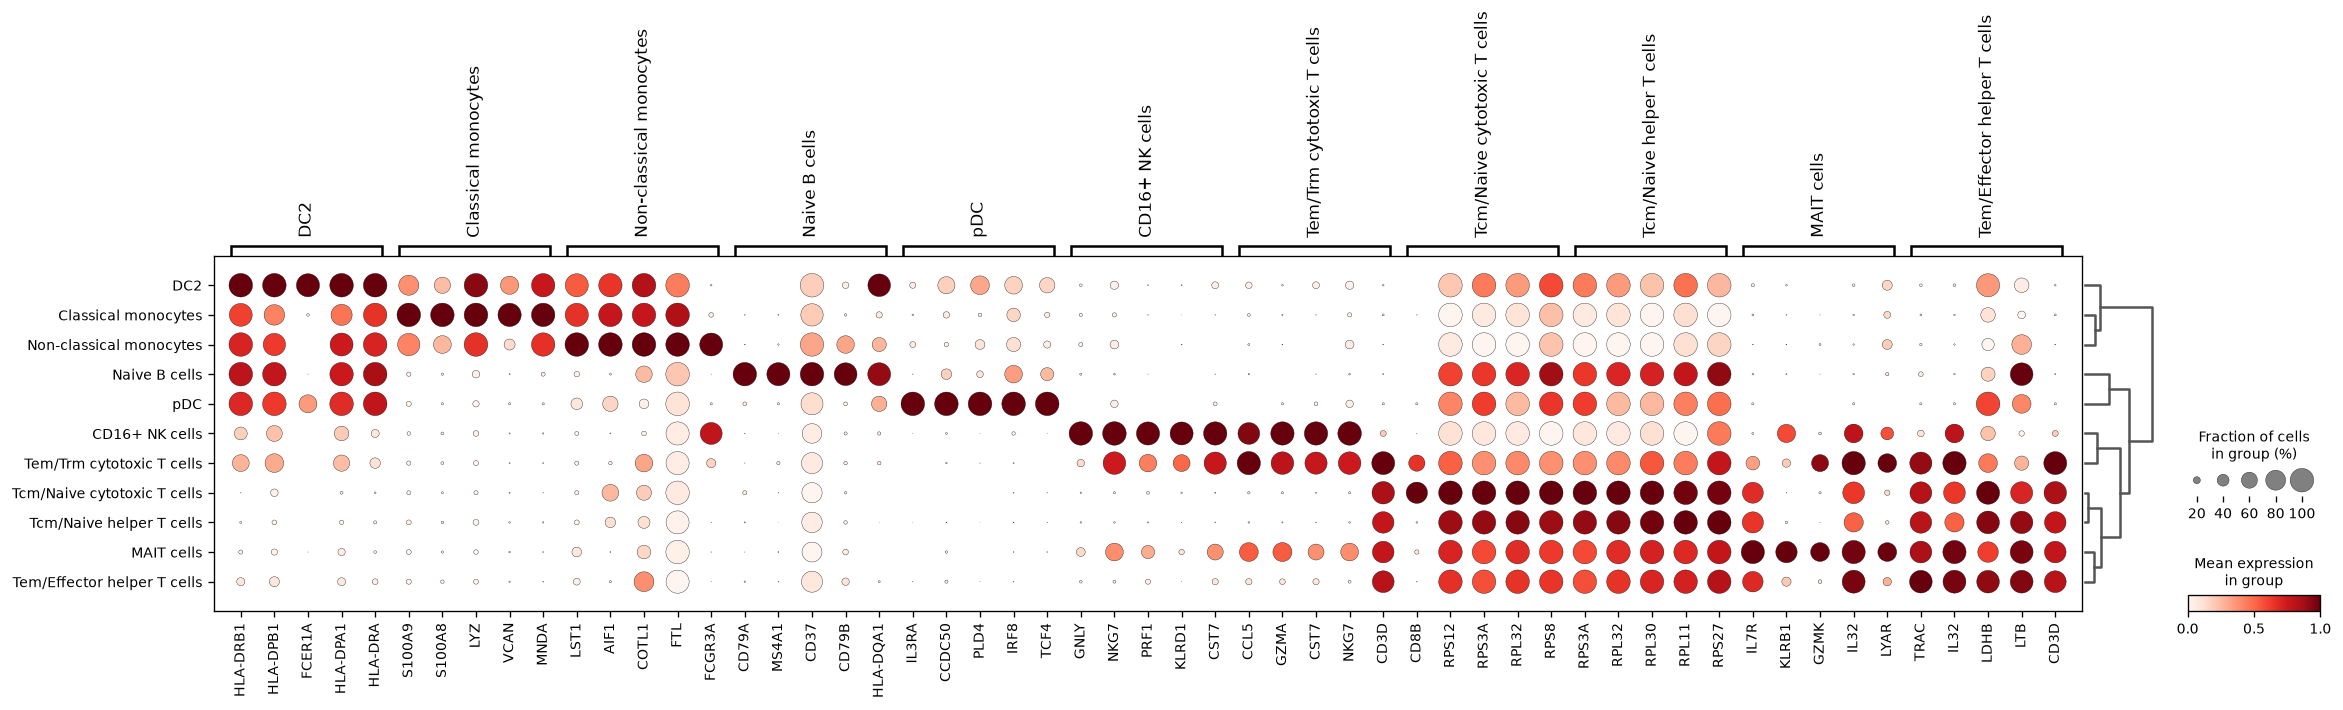
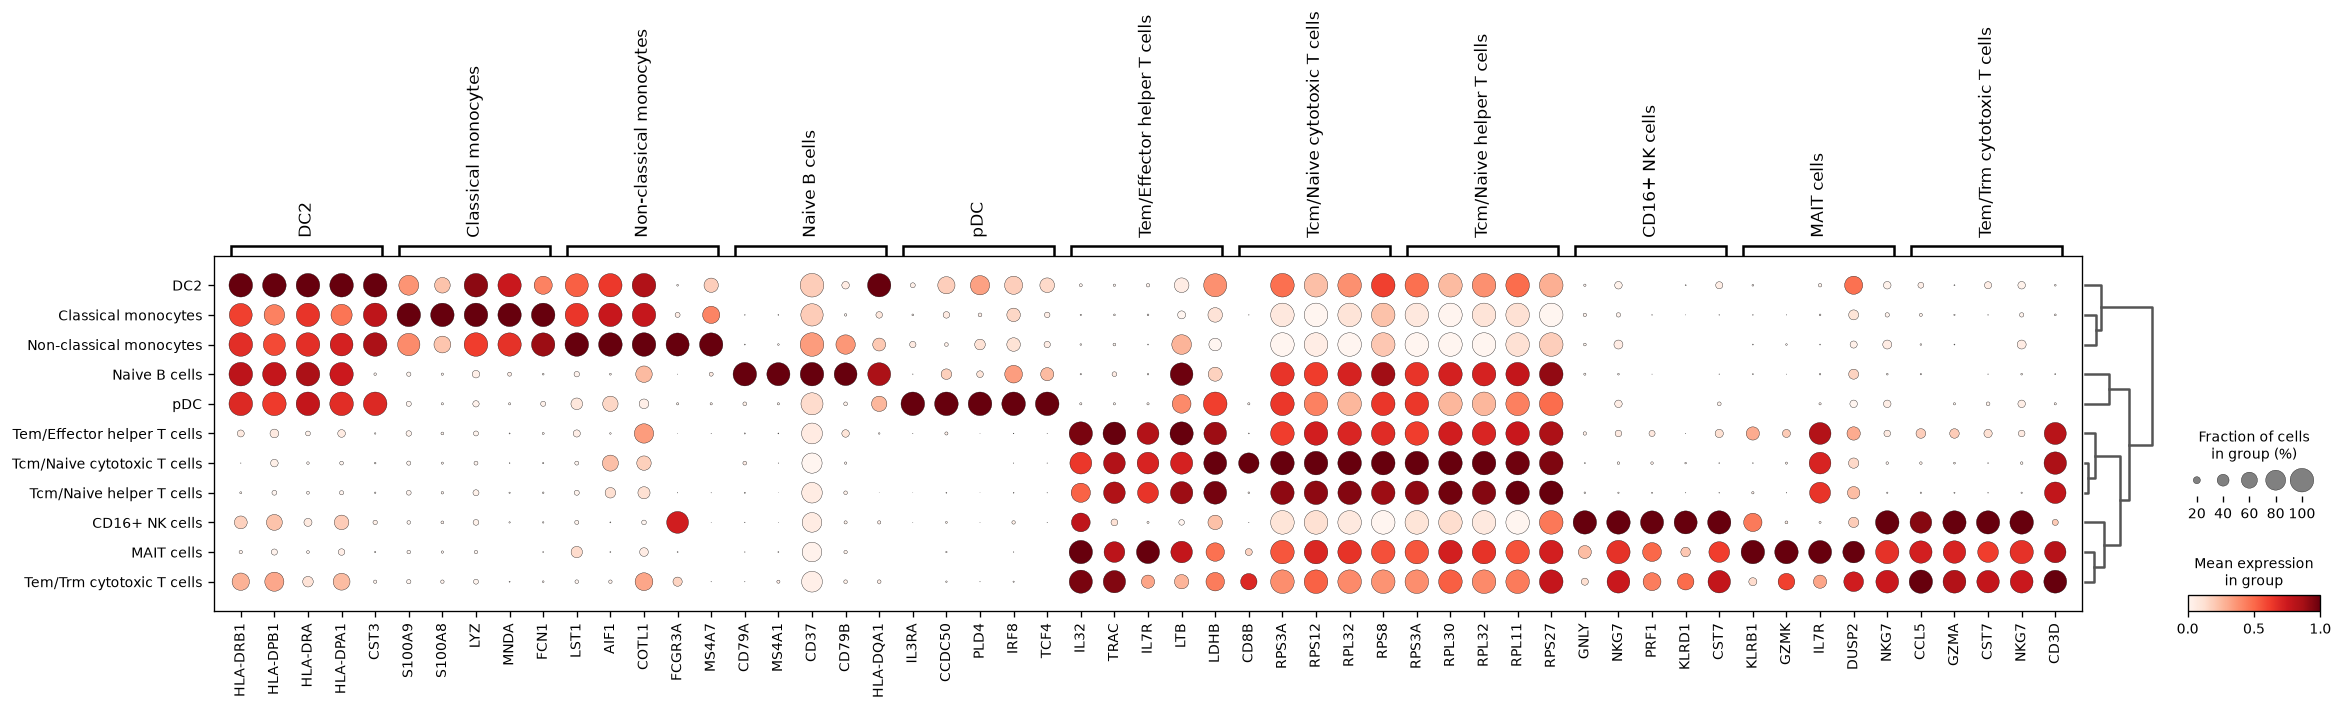
Re-run update

diff --git a/examples/pbmc_multibatch/report.md b/examples/pbmc_multibatch/report.md
@@ -1,68 +1,95 @@
 # PBMC Multi-Batch scRNA-seq Analysis Report
 
 ## Overview
-Dataset: `data/pbmc_multibatch.h5ad` — 4,000 cells × 15,792 genes, human PBMCs pooled across **2 batches** (`batch` column: PBMC10k, PBMC5k), with raw counts available.
+This report describes the end-to-end analysis of `data/pbmc_multibatch.h5ad`, a peripheral blood mononuclear cell (PBMC) dataset comprising two batches (technical replicates/samples, `PBMC10k` and `PBMC5k`). The analysis proceeded from raw counts through QC filtering, doublet removal, batch-corrected dimensionality reduction, clustering, and cell-type annotation.
 
-## Gene Identifiers & QC
-- Gene symbols confirmed (human), mitochondrial genes identified via **MT-** prefix (13 genes found).
-- QC metrics computed per cell: `n_genes`, `total_counts`, `pct_counts_mt`.
-- **Mitochondrial content was unusually high genome-wide** (median 6.9%, p75 8.6%, p95 12.2%), well above the typical PBMC tutorial baseline. The tool's default recommendation (`max_pct_mt=5%`) would have discarded **82% of cells** — clearly inappropriate for this dataset's actual biology/library prep. Instead, a threshold of **15% mito** was chosen from the observed distribution, targeting only the extreme tail (~p97+) of stressed/dying cells.
-- Filtering applied: `min_genes=200` (removed 0 cells — distribution was already healthy), `max_pct_mt=15`, `min_cells=3` (gene-level).
-- Result: **4000 → 3927 cells** (73 removed), 15792 → 15702 genes (90 removed).
+## 1. Input Data
+- **Starting size:** 4,000 cells × 15,792 genes
+- **Gene identifiers:** Human gene symbols (mitochondrial prefix `MT-`, 13 mito genes detected)
+- **Batch structure:** 2 batches present in `obs['batch']`, treated as a technical grouping to be corrected for (not an experimental variable of interest)
+- Raw counts were available and preserved throughout for later use by scVI.
 
-## Doublet Detection
-- Scrublet doublet scores were computed; the distribution was **not bimodal** (no clear valley), so per protocol the **median + 3×MAD** rule was used: threshold = **0.09**.
-- This flagged 364 cells (9.3%) as doublets — a plausible rate for a pooled/multiplexed multi-batch PBMC dataset.
-- Result: **3927 → 3563 cells** after removal.
+## 2. Quality Control
+Per-cell QC metrics were computed (genes/cell, total counts/cell, % mitochondrial reads). Key distributional stats:
+- `n_genes_by_counts`: median 1568 (range 264–4360)
+- `total_counts`: median 4783 (range 516–19,945)
+- `pct_counts_mt`: median 6.9% (range 1.3%–20.0%)
 
-## Normalization & Batch Correction
-- Raw counts stashed prior to normalization (required for scVI).
-- Total-count normalization (target sum 1e4), log1p transform, and HVG flagging (2000 genes) performed.
-- Since the dataset contains **2 real batches**, **scVI** was used (rather than plain PCA) to learn a batch-corrected 10-dimensional latent embedding (`X_scVI`), trained for 400 epochs on raw counts restricted to HVGs. This is the appropriate choice per protocol when a genuine multi-batch structure is present.
+**Threshold decision:** The standard tutorial-default mitochondrial cutoff (5%) was evaluated but rejected — it would have discarded 3,291/4,000 cells (82%), since the dataset's median mito% (6.9%) already exceeds that threshold. This indicated the tutorial default was miscalibrated for this dataset's biology/chemistry. Instead, a data-driven cutoff of **15% mito** (between the 95th and 99th percentiles) was used, removing only genuine high-mito outliers.
 
-## Clustering & Markers
-- Leiden clustering (resolution 1.0) on the scVI latent space + UMAP embedding yielded **14 clusters**, ranging from 23 to 703 cells.
-- Wilcoxon marker-gene ranking per cluster identified clear, biologically coherent signatures (e.g., S100A8/9/CD14/LYZ for classical monocytes, CD3D/TRAC for T cells, CD79A/MS4A1 for B cells, NKG7/GNLY for NK cells, IL3RA/IRF8 for pDCs).
+**Filters applied:**
+- `min_genes = 200` (floor; removed 0 cells, as the minimum was already 264)
+- `max_pct_mt = 15%`
+- `min_cells = 3` (gene-level filter)
 
-## Cell Type Annotation (CellTypist, Immune_All_Low model)
-Majority-vote annotation per cluster produced 11 immune cell types, matching the manual marker interpretation closely:
+**Result:** 4,000 → 3,927 cells (73 removed); 15,792 → 15,702 genes (90 removed).
 
-| Cell Type | Count | % of cells |
+## 3. Doublet Detection
+Scrublet was run on the filtered data. The doublet-score distribution was **not bimodal**, so per protocol the **median + 3×MAD** rule was used rather than a bimodal valley or the Scrublet automatic threshold (the latter, computed per-batch at ~0.40, appeared miscalibrated — far out in the sparse tail and would have flagged almost no cells despite a clearly heavy-tailed score distribution).
+
+- **Threshold chosen:** 0.09 (median 0.038 + 3×MAD)
+- **Cells flagged and removed:** 364 (9.3%)
+- **Result:** 3,927 → 3,563 cells
+
+## 4. Normalization
+Raw counts were stashed (for scVI), then data were total-count normalized (target sum 1e4), log1p-transformed, and the top 2,000 highly variable genes (HVGs) were flagged (computed per-batch to avoid batch-driven HVG selection bias).
+
+## 5. Dimensionality Reduction
+Since the dataset contains 2 batches representing a **technical grouping** (separate samples/sequencing runs) rather than a biological variable of interest, **scVI** was used instead of plain PCA to learn a batch-corrected latent embedding. scVI was trained on raw counts restricted to the HVGs (10 latent dimensions, 400 epochs), producing the `X_scVI` representation used for all downstream clustering/visualization.
+
+## 6. Clustering
+Leiden clustering (resolution = 1.0) on the scVI latent space yielded **13 clusters**, ranging from 23 to 712 cells, with UMAP coordinates computed for visualization.
+
+## 7. Marker Genes & Cell-Type Annotation
+Wilcoxon rank-sum marker analysis and CellTypist (`Immune_All_Low.pkl`, majority-vote per cluster) were used to annotate clusters. Marker genes were highly concordant with the assigned identities:
+
+| Cluster | Top Markers | Annotated Cell Type | n Cells |
+|---|---|---|---|
+| 0 | S100A9, S100A8, S100A12, VCAN, CD14 | Classical monocytes | 658 |
+| 1 | CPVL, NEAT1, PSAP, CST3, FGL2 | Classical monocytes | 385 |
+| 2 | GNLY, NKG7, PRF1, KLRD1, GZMB | CD16+ NK cells | 399 |
+| 3 | CD79A, MS4A1, CD37, CD79B | Naive B cells | 288 |
+| 4 | RPS3A, RPL30, RPL32 (ribosomal) | Tcm/Naive helper T cells | 712* |
+| 5 | CD8B, ribosomal genes | Tcm/Naive cytotoxic T cells | 172 |
+| 6 | HLA-DRB1/DPB1/DRA, FCER1A, CLEC10A | DC2 | 64 |
+| 7 | IL32, TRAC, IL7R, CD3D | Tem/Effector helper T cells | 445 |
+| 8 | MALAT1, JUN, MT-CO1/ATP6/ND5 (mito-high) | Tcm/Naive helper T cells (low-confidence) | 24 |
+| 9 | CCL5, GZMA, CST7, NKG7, CD3D | Tem/Trm cytotoxic T cells | 192 |
+| 10 | KLRB1, GZMK, IL7R, NKG7 | MAIT cells | 132 |
+| 11 | LST1, AIF1, FCGR3A, MS4A7, CSF1R | Non-classical monocytes | 69 |
+| 12 | IL3RA, PLD4, IRF8, TCF4, MZB1 | pDC | 23 |
+
+*Clusters 4 and 8 were both majority-called "Tcm/Naive helper T cells"; combined count shown in totals below.
+
+**Overall cell-type composition (n=3,563 cells):**
+| Cell Type | Count | % |
 |---|---|---|
-| Classical monocytes | 1017 | 28.5% |
-| Tcm/Naive helper T cells | 728 | 20.4% |
-| CD16+ NK cells | 397 | 11.1% |
-| Tem/Effector helper T cells | 318 | 8.9% |
+| Classical monocytes | 1,043 | 29.3% |
+| Tcm/Naive helper T cells | 736 | 20.7% |
+| Tem/Effector helper T cells | 445 | 12.5% |
+| CD16+ NK cells | 399 | 11.2% |
 | Naive B cells | 288 | 8.1% |
-| MAIT cells | 279 | 7.8% |
-| Tem/Trm cytotoxic T cells | 194 | 5.4% |
-| Tcm/Naive cytotoxic T cells | 164 | 4.6% |
-| Non-classical monocytes | 83 | 2.3% |
-| DC2 | 72 | 2.0% |
+| Tem/Trm cytotoxic T cells | 192 | 5.4% |
+| Tcm/Naive cytotoxic T cells | 172 | 4.8% |
+| MAIT cells | 132 | 3.7% |
+| Non-classical monocytes | 69 | 1.9% |
+| DC2 | 64 | 1.8% |
 | pDC | 23 | 0.6% |
 
-### Cluster-to-cell-type mapping
-| Cluster | Size | Cell Type | Top markers |
-|---|---|---|---|
-| 0 | 413 | Classical monocytes | S100A9, S100A8, S100A12, VCAN, S100A6 |
-| 1 | 318 | Tem/Effector helper T cells | TRAC, IL32, LDHB, LTB, CD3D |
-| 2 | 25 | Tcm/Naive helper T cells* | MALAT1, JUN, MT-CO1, MTRNR2L12, MT-ATP6 |
-| 3 | 604 | Classical monocytes | NEAT1, FGL2, CTSS, PSAP, FTH1 |
-| 4 | 282 | CD16+ NK cells | GNLY, GZMH, NKG7, CCL5, FGFBP2 |
-| 5 | 288 | Naive B cells | CD79A, MS4A1, CD37, CD79B, HLA-DQA1 |
-| 6 | 703 | Tcm/Naive helper T cells | RPS3A, RPL30, RPL32, RPL11, RPS27A |
-| 7 | 164 | Tcm/Naive cytotoxic T cells | CD8B, RPS12, RPS3A, RPL32, RPS8 |
-| 8 | 72 | DC2 | HLA-DRB1, HLA-DPB1, FCER1A, HLA-DPA1, HLA-DRA |
-| 9 | 279 | MAIT cells | IL7R, KLRB1, GZMK, IL32, LYAR |
-| 10 | 115 | CD16+ NK cells | NKG7, KLRD1, GNLY, KLRF1, CLIC3 |
-| 11 | 194 | Tem/Trm cytotoxic T cells | CCL5, GZMA, CST7, NKG7, CD3D |
-| 12 | 83 | Non-classical monocytes | LST1, AIF1, COTL1, FTL, FCGR3A |
-| 13 | 23 | pDC | IL3RA, CCDC50, PLD4, IRF8, TCF4 |
+## 8. Caveats & Notes
+- **Cluster 8** (24 cells) shows a marker profile dominated by MALAT1, JUN, and multiple mitochondrial genes (MT-CO1, MT-ATP6, MT-ND5, MT-CYB, MT-ND4, MT-CO3) rather than canonical lineage markers. This is a hallmark of stressed or partially degraded cells rather than a distinct biological population, despite being majority-labeled "Tcm/Naive helper T cells" by CellTypist. This small cluster should be interpreted with caution and could be excluded in follow-up analyses.
+- The resulting composition (monocyte-dominant, with the expected T/B/NK/DC/pDC compartments) is consistent with a typical healthy PBMC sample.
+- Batch correction via scVI was applied given the 2-batch technical structure; no batch-driven clustering artifacts were apparent among the major lineage clusters.
 
-\* Cluster 2 (25 cells, 0.7% of cells) shows a stress/low-quality signature dominated by MALAT1, JUN, and multiple mitochondrial transcripts rather than canonical T-cell markers. CellTypist assigned it a "Tcm/Naive helper T cell" label by majority vote, but this cluster likely represents residual stressed or partially degraded cells rather than a distinct biological T-cell state. It is small and does not materially affect downstream interpretation, but should be interpreted with caution (or filtered) in follow-up analyses.
+## 9. Pipeline Summary
+| Step | Cells | Genes |
+|---|---|---|
+| Raw input | 4,000 | 15,792 |
+| After QC filtering (min_genes=200, max_pct_mt=15%, min_cells=3) | 3,927 | 15,702 |
+| After doublet removal (threshold=0.09) | 3,563 | 15,702 |
+| Final (post-normalization/HVG/clustering) | 3,563 | 15,702 (2,000 HVGs used for scVI/PCA) |
 
-## Summary
-This PBMC dataset was processed from raw counts through QC, doublet removal, batch-corrected scVI embedding, clustering, and cell-type annotation. Final dataset: **3,563 high-quality cells × 15,702 genes**, organized into 14 transcriptionally distinct clusters spanning the expected major PBMC lineages: monocytes (classical & non-classical), T-cell subsets (CD4 helper, CD8 cytotoxic, MAIT), B cells, NK cells, and dendritic cells (DC2, pDC). The two input batches were successfully integrated via scVI, and cluster identities are well supported by canonical marker genes and independent CellTypist annotation. Key analytical judgment calls — the mito-percentage threshold (adapted from the dataset's own elevated baseline rather than a generic default) and the doublet threshold (median+3×MAD, given a non-bimodal score distribution) — are documented above with rationale.
+Final annotated object, figures (UMAP, QC plots), and this report have been saved as part of the pipeline output.
 
 ## Figures
 
